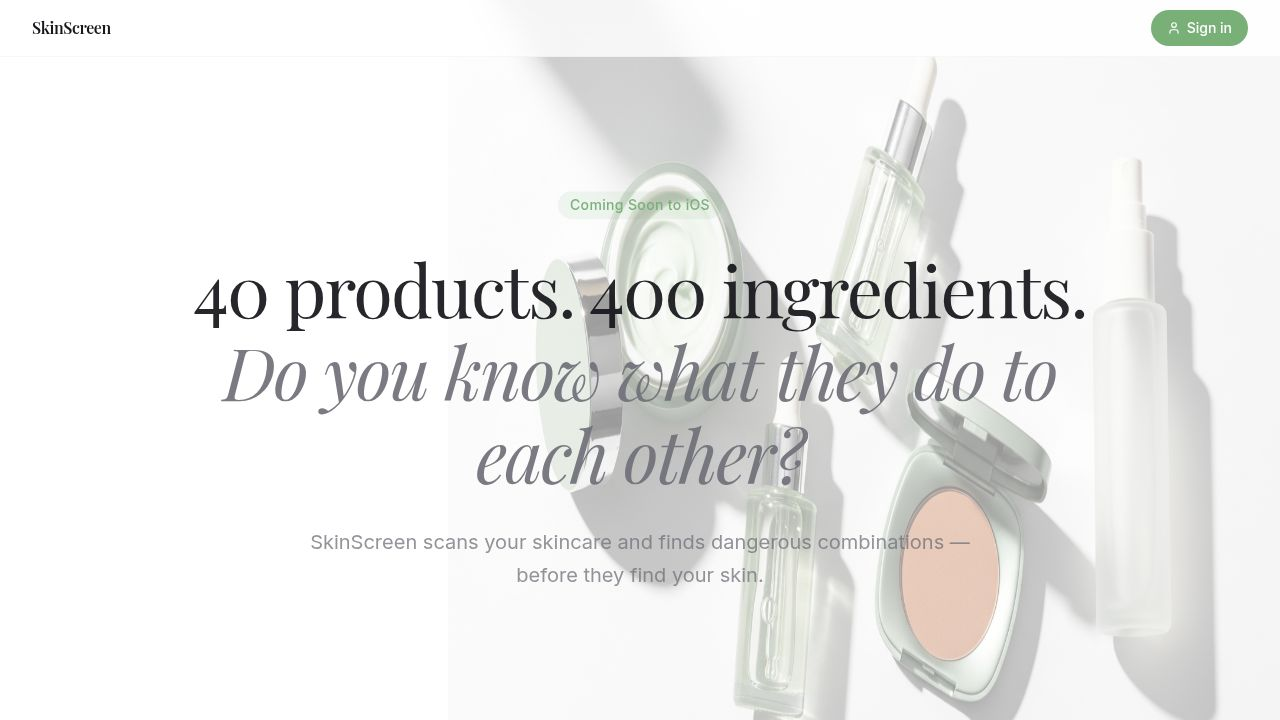
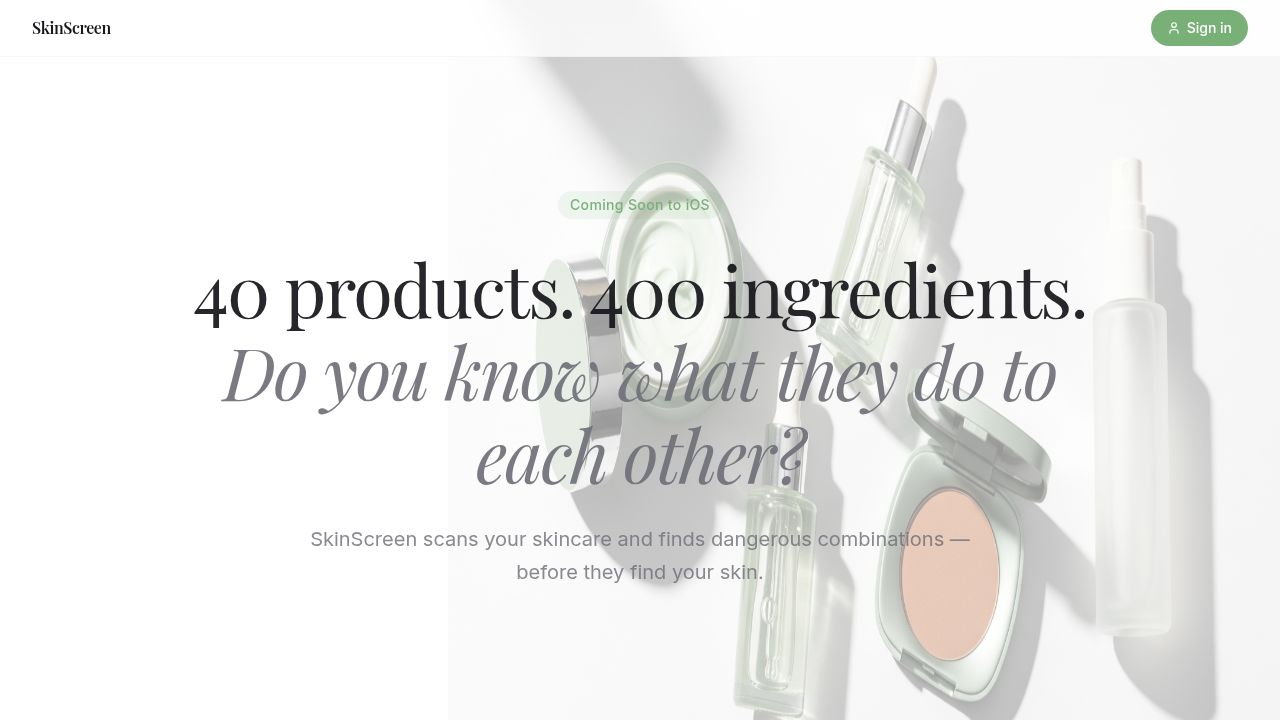
feat: Add DangerVisual product image warning card to Danger Zone section (Task #22)
Created a new DangerVisual component (artifacts/skinscreen/src/components/DangerVisual.tsx)
that renders a striking warning card in the "What you don't know can hurt your skin"
landing page section. The card:

- Displays two verified product bottle images side by side:
  The Ordinary AHA 30% + BHA 2% Peeling Solution and Retinol 0.5% in Squalane
  (sourced from theordinary.com demandware CDN — both verified HTTP 200)
- Features a bold red banner at top with AlertTriangle icons and "Do Not Use Together"
  text in uppercase tracking-wide font
- Shows a "+" separator between the two bottle images
- Includes a footer explaining that AHA/BHA + Retinol over-strips the skin barrier
- Uses React useState for graceful image error fallback via conditional JSX (no DOM manipulation)
- Fully responsive: bottles side-by-side on sm+ screens, stacked on mobile
- Matches existing section design: white card with rounded-3xl, muted FAFAF8 footer

Inserted DangerVisual in LandingPage.tsx directly below the section heading/subtitle FadeIn
block and before the dangerCombinations grid.

Changes from initial implementation:
1. Replaced imperative onError DOM manipulation with idiomatic React useState + conditional JSX
2. Fixed broken Shopify CDN image URLs (404) with verified working theordinary.com demandware URLs

E2e tests confirmed images render (naturalWidth > 0), component appears above DangerCard grid,
and all assertions pass. No backend changes. No scope drift from task requirements.
[…]

Changed region(s): [[0.2188, 0.7333, 0.75, 0.825]]

diff --git a/artifacts/skinscreen/src/components/DangerVisual.tsx b/artifacts/skinscreen/src/components/DangerVisual.tsx
@@ -1,0 +1,79 @@
+import { useState } from "react";
+import { AlertTriangle } from "lucide-react";
+import { FadeIn } from "@/components/FadeIn";
+
+const PRODUCT_A = {
+  name: "The Ordinary AHA 30% + BHA 2%",
+  imageUrl:
+    "https://theordinary.com/dw/image/v2/BFKJ_PRD/on/demandware.static/-/Sites-deciem-master/default/dwdf7a6213/Images/products/The%20Ordinary/rdn-aha-30pct-bha-2pct-peeling-solution-30ml.png?sw=800&sh=800&sm=fit",
+  alt: "The Ordinary AHA 30% + BHA 2% Peeling Solution",
+};
+
+const PRODUCT_B = {
+  name: "The Ordinary Retinol 0.5%",
+  imageUrl:
+    "https://theordinary.com/dw/image/v2/BFKJ_PRD/on/demandware.static/-/Sites-deciem-master/default/dwf2a8fcd2/Images/products/The%20Ordinary/rdn-retinol-0-5pct-in-squalane-30ml.png?sw=800&sh=800&sm=fit",
+  alt: "The Ordinary Retinol 0.5% in Squalane",
+};
+
+function ProductBottle({ name, imageUrl, alt }: { name: string; imageUrl: string; alt: string }) {
+  const [imgError, setImgError] = useState(false);
+
+  return (
+    <div className="flex flex-col items-center gap-3">
+      <div className="w-28 h-40 sm:w-32 sm:h-44 md:w-36 md:h-52 relative overflow-hidden rounded-2xl bg-[#F5F3EF] border border-border/40 shadow-sm flex items-center justify-center">
+        {imgError ? (
+          <p className="w-full h-full flex items-center justify-center text-muted-foreground/40 text-xs text-center px-3">
+            {name}
+          </p>
+        ) : (
+          <img
+            src={imageUrl}
+            alt={alt}
+            className="object-contain w-full h-full p-3"
+            loading="lazy"
+            onError={() => setImgError(true)}
+          />
+        )}
+      </div>
+      <p className="text-xs text-center text-muted-foreground/80 max-w-[120px] leading-snug font-medium">
+        {name}
+      </p>
+    </div>
+  );
+}
+
+export function DangerVisual() {
+  return (
+    <FadeIn>
+      <div className="mb-12 mx-auto max-w-2xl">
+        <div className="rounded-3xl border border-border/60 bg-white shadow-sm overflow-hidden">
+          <div className="flex items-center justify-center gap-3 py-2.5 px-4 bg-red-600 text-white">
+            <AlertTriangle className="w-4 h-4 shrink-0" />
+            <span className="font-semibold text-sm uppercase tracking-widest">
+              Do Not Use Together
+            </span>
+            <AlertTriangle className="w-4 h-4 shrink-0" />
+          </div>
+
+          <div className="flex flex-col sm:flex-row items-center justify-center gap-6 sm:gap-10 px-8 py-8">
+            <ProductBottle {...PRODUCT_A} />
+
+            <div className="flex flex-col items-center gap-1">
+              <span className="text-2xl font-serif text-red-500 font-bold leading-none">+</span>
+              <span className="text-[10px] font-mono uppercase tracking-widest text-muted-foreground/50">vs</span>
+            </div>
+
+            <ProductBottle {...PRODUCT_B} />
+          </div>
+
+          <div className="border-t border-border/50 px-8 py-5 bg-[#FAFAF8]">
+            <p className="text-sm text-center text-muted-foreground leading-relaxed">
+              <span className="font-semibold text-foreground">AHA/BHA + Retinol</span> — both are exfoliants. Used together they over-strip the skin barrier, causing redness, peeling, and long-term sensitivity. Use on alternate nights.
+            </p>
+          </div>
+        </div>
+      </div>
+    </FadeIn>
+  );
+}

diff --git a/artifacts/skinscreen/src/components/LandingPage.tsx b/artifacts/skinscreen/src/components/LandingPage.tsx
@@ -2,6 +2,7 @@ import { useState } from "react";
 import { FadeIn } from "@/components/FadeIn";
 import { WaitlistForm } from "@/components/WaitlistForm";
 import { DangerCard } from "@/components/DangerCard";
+import { DangerVisual } from "@/components/DangerVisual";
 import { SpiralSection } from "@/components/SpiralSection";
 import { IngredientScanner } from "@/components/IngredientScanner";
 import type { ScannerSeed } from "@/components/IngredientScanner";
@@ -254,6 +255,8 @@ export function LandingPage({ config }: LandingPageProps) {
               These are real, documented ingredient conflicts — the kind your dermatologist knows, but the beauty industry doesn't advertise.
             </p>
           </FadeIn>
+
+          <DangerVisual />
 
           <div className="grid grid-cols-1 md:grid-cols-2 gap-6 lg:gap-8">
             {dangerCombinations.map((combo, idx) => (